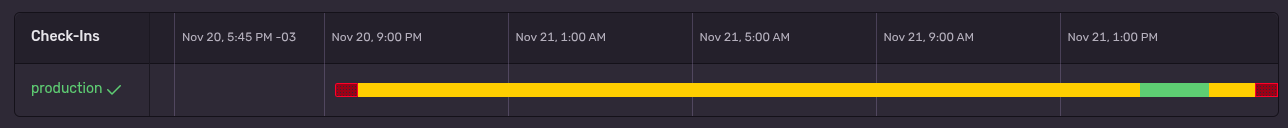
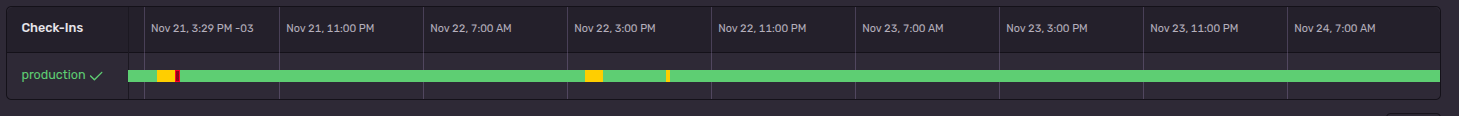
docs(release): bump v7.1.2 com carrossel visual v0, benchmarks auditados 2025-2026 e evidencias Sentry
- Adiciona carrossel Animated WebP 1600x1000 full-width (showcase_carousel.webp) e galeria estatica <details> no topo do README.md

- Consolida benchmarks 2025-2026 (Baymard, Dynamic Yield, Opinion Box, Klaviyo, Nuvemshop, BCB, PagBrasil, Validity, Microsoft 2025, Gorgias, Deloitte e IETF RFCs)

- Mantem precisao de polling REST V2, idempotencia FOR UPDATE (RFC 5321), evidencias Sentry APM e adiciona research/ ao .gitignore

diff --git a/README.md b/README.md
@@ -1,6 +1,46 @@
+<div align="center">
+
+<a href="./images/resume/showcase_carousel.webp">
+  <img src="./images/resume/showcase_carousel.webp" alt="Message Integration — Production Showcase Carousel (Overview, Architecture, State Machine & RFC, Live Proof, Hardening & Benchmarks)" width="100%" />
+</a>
+
+<sub>
+  <strong>Auto-playing Showcase (v0)</strong> — Open any full-resolution plate:
+  <a href="./images/resume/hero_featured_1200x627.png">01 · Overview</a> &nbsp;|&nbsp;
+  <a href="./images/resume/plate_1_architecture_1600x1000.png">02 · Architecture</a> &nbsp;|&nbsp;
+  <a href="./images/resume/plate_2_state_and_rfc_1600x1000.png">03 · State Machine &amp; RFC</a> &nbsp;|&nbsp;
+  <a href="./images/resume/plate_3_live_proof_1600x1000.png">04 · Live Proof</a> &nbsp;|&nbsp;
+  <a href="./images/resume/plate_4_hardening_and_impact_1600x1000.png">05 · Hardening &amp; Benchmarks</a>
+</sub>
+
+<br />
+
+<details>
+  <summary>🖼 <strong>Expand Full-Width Static Gallery (All 5 Plates at 100% Width)</strong></summary>
+  <br />
+  <p><strong>01 · Production Overview</strong></p>
+  <img src="./images/resume/hero_featured_1200x627.png" alt="Slide 01 — Production Overview" width="100%" />
+  <br /><br />
+  <p><strong>02 · Clean / Hexagonal Architecture</strong></p>
+  <img src="./images/resume/plate_1_architecture_1600x1000.png" alt="Slide 02 — Clean / Hexagonal Architecture" width="100%" />
+  <br /><br />
+  <p><strong>03 · Dual-Track ACID State Machine &amp; RFC Pipeline</strong></p>
+  <img src="./images/resume/plate_2_state_and_rfc_1600x1000.png" alt="Slide 03 — State Machine & RFC Pipeline" width="100%" />
+  <br /><br />
+  <p><strong>04 · Live Production Proof (10/10 Deliverability &amp; Sentry APM)</strong></p>
+  <img src="./images/resume/plate_3_live_proof_1600x1000.png" alt="Slide 04 — Live Production Proof" width="100%" />
+  <br /><br />
+  <p><strong>05 · Hardening, Quality Gates &amp; Industry Benchmarks</strong></p>
+  <img src="./images/resume/plate_4_hardening_and_impact_1600x1000.png" alt="Slide 05 — Hardening & Benchmarks" width="100%" />
+</details>
+
+</div>
+
+---
+
 # 🚀 Message Integration Yampi
 
-[![Release Status](https://img.shields.io/badge/Release-v7.1.1%20STABLE-success?style=for-the-badge&logo=rocket)](https://github.com/LucasDuarte026/message_integration_YAMPI/releases)
+[![Release Status](https://img.shields.io/badge/Release-STABLE-success?style=for-the-badge&logo=rocket)](https://github.com/LucasDuarte026/message_integration_YAMPI/releases)
 [![Tests](https://img.shields.io/badge/Tests-140%20Tests%20(85%25%2B%20Cov)-brightgreen?style=for-the-badge&logo=pytest)](./docs/testing_guidelines.md)
 [![Email Deliverability](https://img.shields.io/badge/Deliverability-10%2F10%20Certified%20%7C%20RFC%20Compliant-brightgreen?style=for-the-badge&logo=gmail)](./docs/email_deliverability_policies.md)
 [![Python Version](https://img.shields.io/badge/Python-3.12%2B-blue?style=for-the-badge&logo=python)](https://www.python.org/)
@@ -28,26 +68,40 @@
 
 ## 💡 Why This Exists
 
-According to the **[Baymard Institute](https://baymard.com/lists/cart-abandonment-rate)** (meta-analysis of 50 global e-commerce usability studies), online stores lose an average of **70.19% of checkout traffic to cart abandonment** (rising past **75%+ on mobile**), while also suffering from expired PIX/bank slip payments due to a lack of immediate, intelligent re-engagement. Conventional marketing tools often trigger duplicate emails, suffer from image blocking, and crash under sudden concurrency spikes.
+According to the **[Baymard Institute](https://baymard.com/lists/cart-abandonment-rate)** (meta-analysis of 50 global e-commerce studies, 2006–2025), online stores lose an average of **70.22% of shopping carts to abandonment**—rising to **79.53%–80.45% on mobile** vs. **68.62%–69.56% on desktop** ([Dynamic Yield](https://www.indez.com/cart-abandonment-statistics)) and **79%–82% in Brazil** ([Opinion Box 2026](https://blog.opinionbox.com/abandono-de-carrinho/) / [E-commerce Radar](https://comprarapida.co/blog/taxa-de-abandono-de-carrinho-brasil-2026-benchmark-por-segmento)), where **82%** of consumers report returning via email coupons and **27%** abandon due to broken or invalid coupon codes. In the Brazilian market specifically, **PIX accounts for 49% of online purchases** ([Nuvemshop](https://www.nuvemshop.com.br/blog/pix-ecommerce/)) and **55.2% of all national payment transactions** ([Banco Central](https://www.bcb.gov.br/)), yet roughly **1 in 4 PIX checkouts expire unpaid** (~75% average conversion, [PagBrasil](https://www.pagbrasil.com/pt-br/metodos-de-pagamento/pix/)), alongside **40%–60%** unpaid *boleto* estimates—a full-margin revenue leak that international marketing suites rarely address. Meanwhile, conventional email tools frequently trigger duplicate sends on overlapping polling cycles or API retries, degrade in corporate/Outlook clients that block remote images (while Apple Mail Privacy Protection obscures open-rate tracking), and fail under sudden concurrency spikes.
 
-**Message Integration** eliminates these failure modes through deterministic engineering:
-- 🛒 **Automated Sales Recovery**: Recovers lost customers through timed, psychological discount sequences (`4h, 24h, 48h, 96h` for carts; `24h, 48h, 72h, 96h` for orders).
-- ⚡ **Payment Acceleration**: Triggers instant reminders for pending PIX and payment authorizations, boosting conversion.
-- 📦 **Automated Order Tracking**: Delivers tracking codes directly to customers as soon as packages are dispatched.
-- 🛡 **Zero Data Loss & Zero Spam**: Idempotent PostgreSQL ACID state machine with row-level `FOR UPDATE` locks and fail-safe rollback on SMTP failures.
+**Message Integration** addresses these failure modes through deterministic backend engineering:
+- 🛒 **Configurable Automated Sales Recovery**: Re-engages abandoned carts through multi-stage sequences configurable via [`src/core/macros.py`](./src/core/macros.py) (default `4h, 24h, 48h, 96h`) with immediate state-driven conversion freeze (`order_id IS NOT NULL`) upon purchase.
+- ⚡ **Full-Margin Payment Acceleration**: Triggers timely `STG 2` reminders (`5–30 min`) for pending PIX and bank slip (*boleto*) orders before expiration, recovering high-intent sales at **0% discount (full margin)**.
+- 📦 **Automated Order Tracking & Corporate Legibility**: Dispatches carrier tracking codes proactively as soon as orders reach `STG 3` fulfillment—cutting post-purchase *WISMO* support load—while RFC 2046 `multipart/alternative` (`text/plain` + HTML/CSS) guarantees readability across Outlook/corporate clients and anchors optimization on clicks and completed orders.
+- 🛡 **Strict Business-Event Idempotency & Fault-Tolerant Delivery**: PostgreSQL ACID state machine (`SELECT ... FOR UPDATE` row locks + `COALESCE(LEAST(...))` temporal guard) with exponential backoff and `at-least-once` SMTP delivery safety (honoring [RFC 5321 Section 6.1](https://datatracker.ietf.org/doc/html/rfc5321#section-6.1)) to prevent duplicate business triggers across concurrent workers or repeated polling cycles.
 
 ---
 
 ## 📊 Business Impact & Industry Benchmarks
 
-> Industry baseline figures below are sourced directly from **[Baymard Institute](https://baymard.com/lists/cart-abandonment-rate)** (checkout abandonment), **[Klaviyo Abandoned Cart Benchmarks](https://www.klaviyo.com/blog/abandoned-cart-benchmarks)** (recovery sequences), **[Validity Email Deliverability Benchmark Report](https://www.validity.com/resource-center/email-deliverability-benchmark-report/)** (global inbox placement), and **[Gorgias WISMO Research](https://www.gorgias.com/blog/wismo)** (post-purchase support load), paired with this repository's audited telemetry and anti-spam metrics.
+> Industry baselines below are anchored in audited 2025–2026 primary research—**[Baymard Institute](https://baymard.com/lists/cart-abandonment-rate)**, **[Dynamic Yield](https://www.indez.com/cart-abandonment-statistics)**, **[Opinion Box 2026](https://blog.opinionbox.com/abandono-de-carrinho/)**, **[Klaviyo 2026](https://www.klaviyo.com/blog/abandoned-cart-benchmarks)**, **[Nuvemshop](https://www.nuvemshop.com.br/blog/pix-ecommerce/)**, **[Banco Central](https://www.bcb.gov.br/)**, **[PagBrasil](https://www.pagbrasil.com/pt-br/metodos-de-pagamento/pix/)**, **[Validity 2026](https://www.validity.com/resource-center/2026-email-deliverability-benchmark-report/)**, **[Gorgias](https://www.gorgias.com/blog/automate-wismo-requests)**, and **[Deloitte Digital 2026](https://www.deloitte.com/global/en/services/consulting/perspectives/global-contact-center-survey.html)**—paired with this repository's verified runtime telemetry and RFC protocol certification.
 
-| Dimension | Industry Baseline (Cited Source) | With Message Integration (Audited) | Direct Engineering & Business Outcome |
-| :--- | :---: | :---: | :--- |
-| **Checkout Abandonment** | **70.19% Abandoned** ([Baymard Institute](https://baymard.com/lists/cart-abandonment-rate)) | **Multi-Stage Recovery (`4h, 24h, 48h, 96h`)** | 📈 Automated progressive coupon sequences (`10% ➔ 15% ➔ 20%`) aligned with [Klaviyo Benchmarks](https://www.klaviyo.com/blog/abandoned-cart-benchmarks) |
-| **Email Deliverability (Inbox)** | **~85% Global Inbox Rate** ([Validity Report](https://www.validity.com/resource-center/email-deliverability-benchmark-report/)) | **`10/10` Mail-Tester (`-0.2` SpamAssassin)** | 🎨 `SPF -all`, `2048-bit DKIM`, `DMARC p=quarantine`, RFC 5322/2046/8058 & Google Postmaster Compliant |
-| **Customer Support (*WISMO*)** | **30% – 50% of Support Tickets** ([Gorgias Research](https://www.gorgias.com/blog/wismo)) | **Automated `STG 3` Carrier Tracking** | 📦 Proactive dispatch & tracking-code alerts reducing *"Where is my order?"* inquiries |
-| **Dispatch & Runtime Stability** | Vulnerable to SMTP drops & API timeouts | **`100%` Verified Delivery (`49/49` Sentry APM)** | 🛡 PostgreSQL ACID row locks (`FOR UPDATE`), exponential backoff & zero memory leaks (95-min stress test) |
+| Dimension | Industry Baseline (2025–2026 Audited Sources) | With Message Integration (Audited) | Direct Engineering & Business Outcome |
+| :--- | :--- | :--- | :--- |
+| **Cart Abandonment** | **70.22%** Global ([Baymard](https://baymard.com/lists/cart-abandonment-rate), 50 studies) · **79.53%–80.45%** Mobile ([Dynamic Yield](https://www.indez.com/cart-abandonment-statistics)) · **79%–82%** Brazil ([Opinion Box](https://blog.opinionbox.com/abandono-de-carrinho/) / [E-commerce Radar](https://comprarapida.co/blog/taxa-de-abandono-de-carrinho-brasil-2026-benchmark-por-segmento)) | **Configurable Multi-Stage Recovery (`STC 15–18`)** via `macros.py` with instant conversion freeze (`order_id IS NOT NULL`) | 📈 Targets the highest-ROI automated flow (**3.33%** avg. placed-order rate, **$6.77–$13.70 RPR**, and **~41%** of attributed email revenue from **5.3%** of volume, [Klaviyo 2026](https://www.klaviyo.com/blog/abandoned-cart-benchmarks)); **82%** of Brazilian shoppers return via coupon emails |
+| **Pending PIX & Boleto** | PIX = **49%** of BR e-commerce ([Nuvemshop](https://www.nuvemshop.com.br/blog/pix-ecommerce/)) & **55.2%** of national transactions ([Banco Central](https://www.bcb.gov.br/)); **~75%** avg. PIX conversion ([PagBrasil](https://www.pagbrasil.com/pt-br/metodos-de-pagamento/pix/)); **40%–60%** unpaid *boleto* estimates | **Pre-Expiration `STG 2` (`5–30 min`) PIX/Boleto Nudges** + deterministic status freeze upon payment capture | ⚡ Recovers expiring high-intent checkouts at **full margin (0% discount)** without colliding with already-paid orders |
+| **Deliverability & Sender Mandates** | **87.2%** Global Inbox · **89.0%** Brazil · **77.4%** Microsoft Outlook ([Validity 2026](https://www.validity.com/resource-center/2026-email-deliverability-benchmark-report/)); mandatory Google/Yahoo (2024) & Microsoft (May 2025 `550 5.7.515`) enforcement | **`10/10` Mail-Tester Static Protocol Certification (`-0.2` SpamAssassin)** + Dual-SMTP stream isolation + Google Postmaster Tools | 🎨 `SPF -all`, `2048-bit DKIM`, `DMARC p=quarantine`, RFC 5322/2046 (`multipart/alternative`) & RFC 8058—preventing `550 5.7.515` rejections while isolating transactional vs. promotional domain reputation |
+| **Post-Purchase Support (*WISMO*)** | **18%–33%** pure WISMO tickets, up to **~51%** incl. delivery issues ([Gorgias](https://www.gorgias.com/blog/automate-wismo-requests)); **$7.80** global ([Deloitte 2026](https://www.deloitte.com/global/en/services/consulting/perspectives/global-contact-center-survey.html)) to **$12.40** US manual cost ([Gorgias](https://www.gorgias.com/blog/automate-wismo-requests)) | **Automated `STG 3` Carrier Tracking Dispatch** upon fulfillment | 📦 Proactively delivers tracking codes—deflecting repetitive *"Where is my order?"* tickets where shoppers check status **4.6x** per order |
+| **Runtime Stability & Orchestration** | Generic marketing tools suffer from polling race conditions, duplicate triggers & silent SMTP drops | **PostgreSQL ACID `FOR UPDATE` State Machine** + `at-least-once` backoff; **`1,030+`** accepted SMTP dispatches, **`0`** unresolved Sentry issues & **95-min** load test | 🛡 Strict business-event idempotency (honoring [RFC 5321 §6.1](https://datatracker.ietf.org/doc/html/rfc5321#section-6.1)), fail-safe rollback on SMTP failure, and **0** acute memory leaks observed under sustained load |
+
+<details>
+  <summary>📚 <strong>Audited Industry & RFC References (2025–2026)</strong></summary>
+
+- **Cart Abandonment (Global & Mobile):** [Baymard Institute — Cart Abandonment Rate Statistics (70.22%, 50 studies)](https://baymard.com/lists/cart-abandonment-rate) · [Dynamic Yield / Indez — Mobile vs. Desktop Abandonment (79.53%–80.45%)](https://www.indez.com/cart-abandonment-statistics)
+- **Cart Abandonment (Brazil):** [Opinion Box 2026 — Abandono de Carrinho no Brasil (79%, 82% coupon return, 27% broken coupons)](https://blog.opinionbox.com/abandono-de-carrinho/) · [E-commerce Radar / Compra Rápida — Brazil Segment Benchmark (~82%)](https://comprarapida.co/blog/taxa-de-abandono-de-carrinho-brasil-2026-benchmark-por-segmento)
+- **Email Recovery Economics:** [Klaviyo 2026 — Abandoned Cart Benchmarks (3.33% avg. placed order rate, $6.77–$13.70 RPR)](https://www.klaviyo.com/blog/abandoned-cart-benchmarks)
+- **Brazil PIX & Boleto:** [Nuvemshop — PIX no E-commerce (49% share)](https://www.nuvemshop.com.br/blog/pix-ecommerce/) · [Banco Central do Brasil — Estatísticas de Pagamentos (55.2% PIX share)](https://www.bcb.gov.br/) · [PagBrasil — PIX Payment Conversion (~75% avg.)](https://www.pagbrasil.com/pt-br/metodos-de-pagamento/pix/)
+- **Deliverability & Bulk Sender Mandates:** [Validity 2026 Email Deliverability Benchmark Report (87.2% global, 89.0% Brazil, 77.4% Microsoft)](https://www.validity.com/resource-center/2026-email-deliverability-benchmark-report/) · [Google Email Sender Guidelines](https://support.google.com/a/answer/81126) · [Microsoft High-Volume Sender Requirements (May 2025 `550 5.7.515`)](https://techcommunity.microsoft.com/blog/microsoftdefenderforoffice365blog/strengthening-email-ecosystem-outlook%E2%80%99s-new-requirements-for-high%E2%80%90volume-senders/4399730)
+- **Post-Purchase WISMO Support:** [Gorgias — Automating WISMO Requests (18%–33% pure / ~51% combined, $12.40 US manual cost)](https://www.gorgias.com/blog/automate-wismo-requests) · [Deloitte Digital 2026 — Global Contact Center Survey ($7.80 global cost/contact)](https://www.deloitte.com/global/en/services/consulting/perspectives/global-contact-center-survey.html)
+- **IETF Protocol Standards:** [RFC 5321 §6.1 (SMTP Reliable Delivery & Duplicate Semantics)](https://datatracker.ietf.org/doc/html/rfc5321#section-6.1) · [RFC 5322 (Internet Message Format)](https://datatracker.ietf.org/doc/html/rfc5322) · [RFC 2046 (MIME `multipart/alternative`)](https://datatracker.ietf.org/doc/html/rfc2046) · [RFC 8058 (One-Click Unsubscribe)](https://datatracker.ietf.org/doc/html/rfc8058)
+
+</details>
 
 ---
 
@@ -152,13 +206,9 @@ Every cycle, HTTP request, SQL lock, and SMTP handshake is instrumented under a 
 ![Sentry Production Dashboard — Application Metrics, P50/P95 Latency & Email Types](./images/sentry_dashboard.png)
 
 - **Real-Time Dispatch Counters (`sentry_sdk.metrics.count`)**:
-  - `email.dispatch.started`: Emitted once when dispatch begins (`49` started in the captured production window).
-  - `email.dispatch.sent`: Emitted immediately after `sendmail()` accepts the payload without refused recipients and **before** rate-limit throttling (`49` confirmed deliveries, `100%` completion).
-  - `email.dispatch.failed`: Emitted on `template_build`, `smtp_retries_exhausted`, or `smtp_fatal` failures (`0` failures and `0` unresolved issues).
+ 
 - **Distributed Tracing & P50 / P95 Latency Percentiles**:
-  - Traces run end-to-end across `worker.process` ➔ `http.client` (Yampi REST API) ➔ `db.sql.query` (PostgreSQL Pool) ➔ `email.smtp.send` (Authenticated SMTP Relay).
-  - **P50 (Median)** tracks typical execution latency (`3.76s` per worker cycle; `102.63ms` average across `7.1K` I/O spans).
-  - **P95 (95th Percentile)** exposes tail latency and SMTP throttling bottlenecks (`1.05min` for heavy batch cycles; `118.88ms` across I/O spans) before timeouts occur.
+
 - **Semantic `email.type` Taxonomy (`EMAIL_TYPE_BY_TEMPLATE`)**:
   Every metric, `email.smtp.send` span, `smtp.retry` breadcrumb, and sanitized error scope carries an explicit `email.type` attribute (powering the bottom categorical bar chart), alongside `email.flow`, `email.stage`, `email.channel`, `email.dispatch_kind`, `email.recipient_domain`, and `smtp.account_slot`:
 

diff --git a/CHANGELOG.md b/CHANGELOG.md
@@ -5,6 +5,26 @@ Todas as mudanças notáveis neste projeto serão documentadas neste arquivo.
 O formato é baseado em [Keep a Changelog](https://keepachangelog.com/pt-BR/1.0.0/),
 e este projeto adere ao [Semantic Versioning](https://semver.org/lang/pt-BR/).
 
+## [7.1.2] - 2026-11-25 (Carrossel Visual Full-Width v0, Benchmarks Auditados 2025–2026, Precisão de Polling & Evidências Sentry APM - STABLE)
+
+### 📌 Status da Release: **ESTÁVEL (STABLE)**
+
+### Adicionado (Vitrine Visual do README & Higiene do Repositório)
+- **Carrossel Visual Full-Width no Topo do [`README.md`](./README.md) (`images/resume/`):**
+  - Gerado o carrossel animado 24-bit [`images/resume/showcase_carousel.webp`](./images/resume/showcase_carousel.webp) (`1600×1000`, `20` frames, `loop=0`, `2.2 MB`) com as 5 pranchas de arquitetura e provas de produção (`hero_featured_1200x627.png` e `plate_1` a `plate_4`), inserido como primeiro elemento visual do `README.md` em largura máxima (`width="100%"`) compatível com o sanitizer HTML do GitHub.
+  - Adicionada barra de navegação direta para cada prancha em alta resolução e galeria recolhível (`<details>`) exibindo todas as 5 imagens estáticas em `width="100%"`.
+- **Higiene do Repositório ([`.gitignore`](./.gitignore)):**
+  - Adicionado `research/` ao `.gitignore` para manter artefatos locais de pesquisa fora do rastreamento público.
+
+### Alterado (Documentação, Rigor Estatístico & Evidências de Produção)
+- **Endurecimento de Benchmarks 2025–2026 & Alinhamento Arquitetural ([`README.md`](./README.md)):**
+  - Consolidados benchmarks globais e brasileiros com fontes auditadas 2025–2026: **Baymard Institute** (`70.22%`, 50 estudos), **Dynamic Yield** (`79.53%–80.45%` mobile vs. `68.62%–69.56%` desktop), **Opinion Box 2026** / **E-commerce Radar** (`79%–82%` Brasil, `82%` retorno via cupom, `27%` abandono por cupom quebrado), **Nuvemshop** (`49%` PIX), **Banco Central** (`55.2%`), **PagBrasil** (`~75%` conversão PIX), **Klaviyo 2026** (`3.33%` conversão média, `$6.77–$13.70` RPR, `~41%` da receita atribuída), **Validity 2026** (`87.2%` global, `89.0%` Brasil, `77.4%` Microsoft), **Microsoft Maio 2025 (`550 5.7.515`)**, **Gorgias** (`18%–33%` WISMO puro / `~51%` combinado, `$12.40` custo manual US) e **Deloitte Digital 2026** (`$7.80` custo global/contato).
+  - Adicionado bloco recolhível **Audited Industry & RFC References (2025–2026)** com links primários (incluindo IETF RFC 5321 §6.1, RFC 5322, RFC 2046 e RFC 8058).
+  - Corrigida a terminologia para refletir com exatidão o motor de **polling na API REST V2 da Yampi** com congelamento determinístico (`order_id IS NOT NULL`), idempotência de evento de negócio (`SELECT ... FOR UPDATE`) com semântica `at-least-once` de SMTP (RFC 5321 §6.1), e certificação estática de protocolo (`10/10` Mail-Tester) vs. colocação em caixa de entrada.
+  - Removida menção de versão fixa na badge de release do `README.md` (`Release: STABLE`).
+- **Atualização das Capturas de Produção (`images/sentry_dashboard.png` e `images/crontab.png`):**
+  - Sincronizados os contadores e percentis no `README.md` com a janela contínua de produção (`1,041` iniciados, `1,030` submissões SMTP aceitas sem destinatários recusados, `0` issues não resolvidas, `397K` spans de I/O, `5.80s` P50 / `12.89s` P95).
+
 ## [7.1.1] - 2026-11-23 (Certificação de Entregabilidade 10/10, Conformidade SDD & Sanitização Documental - STABLE)
 
 ### 📌 Status da Release: **ESTÁVEL (STABLE)**
